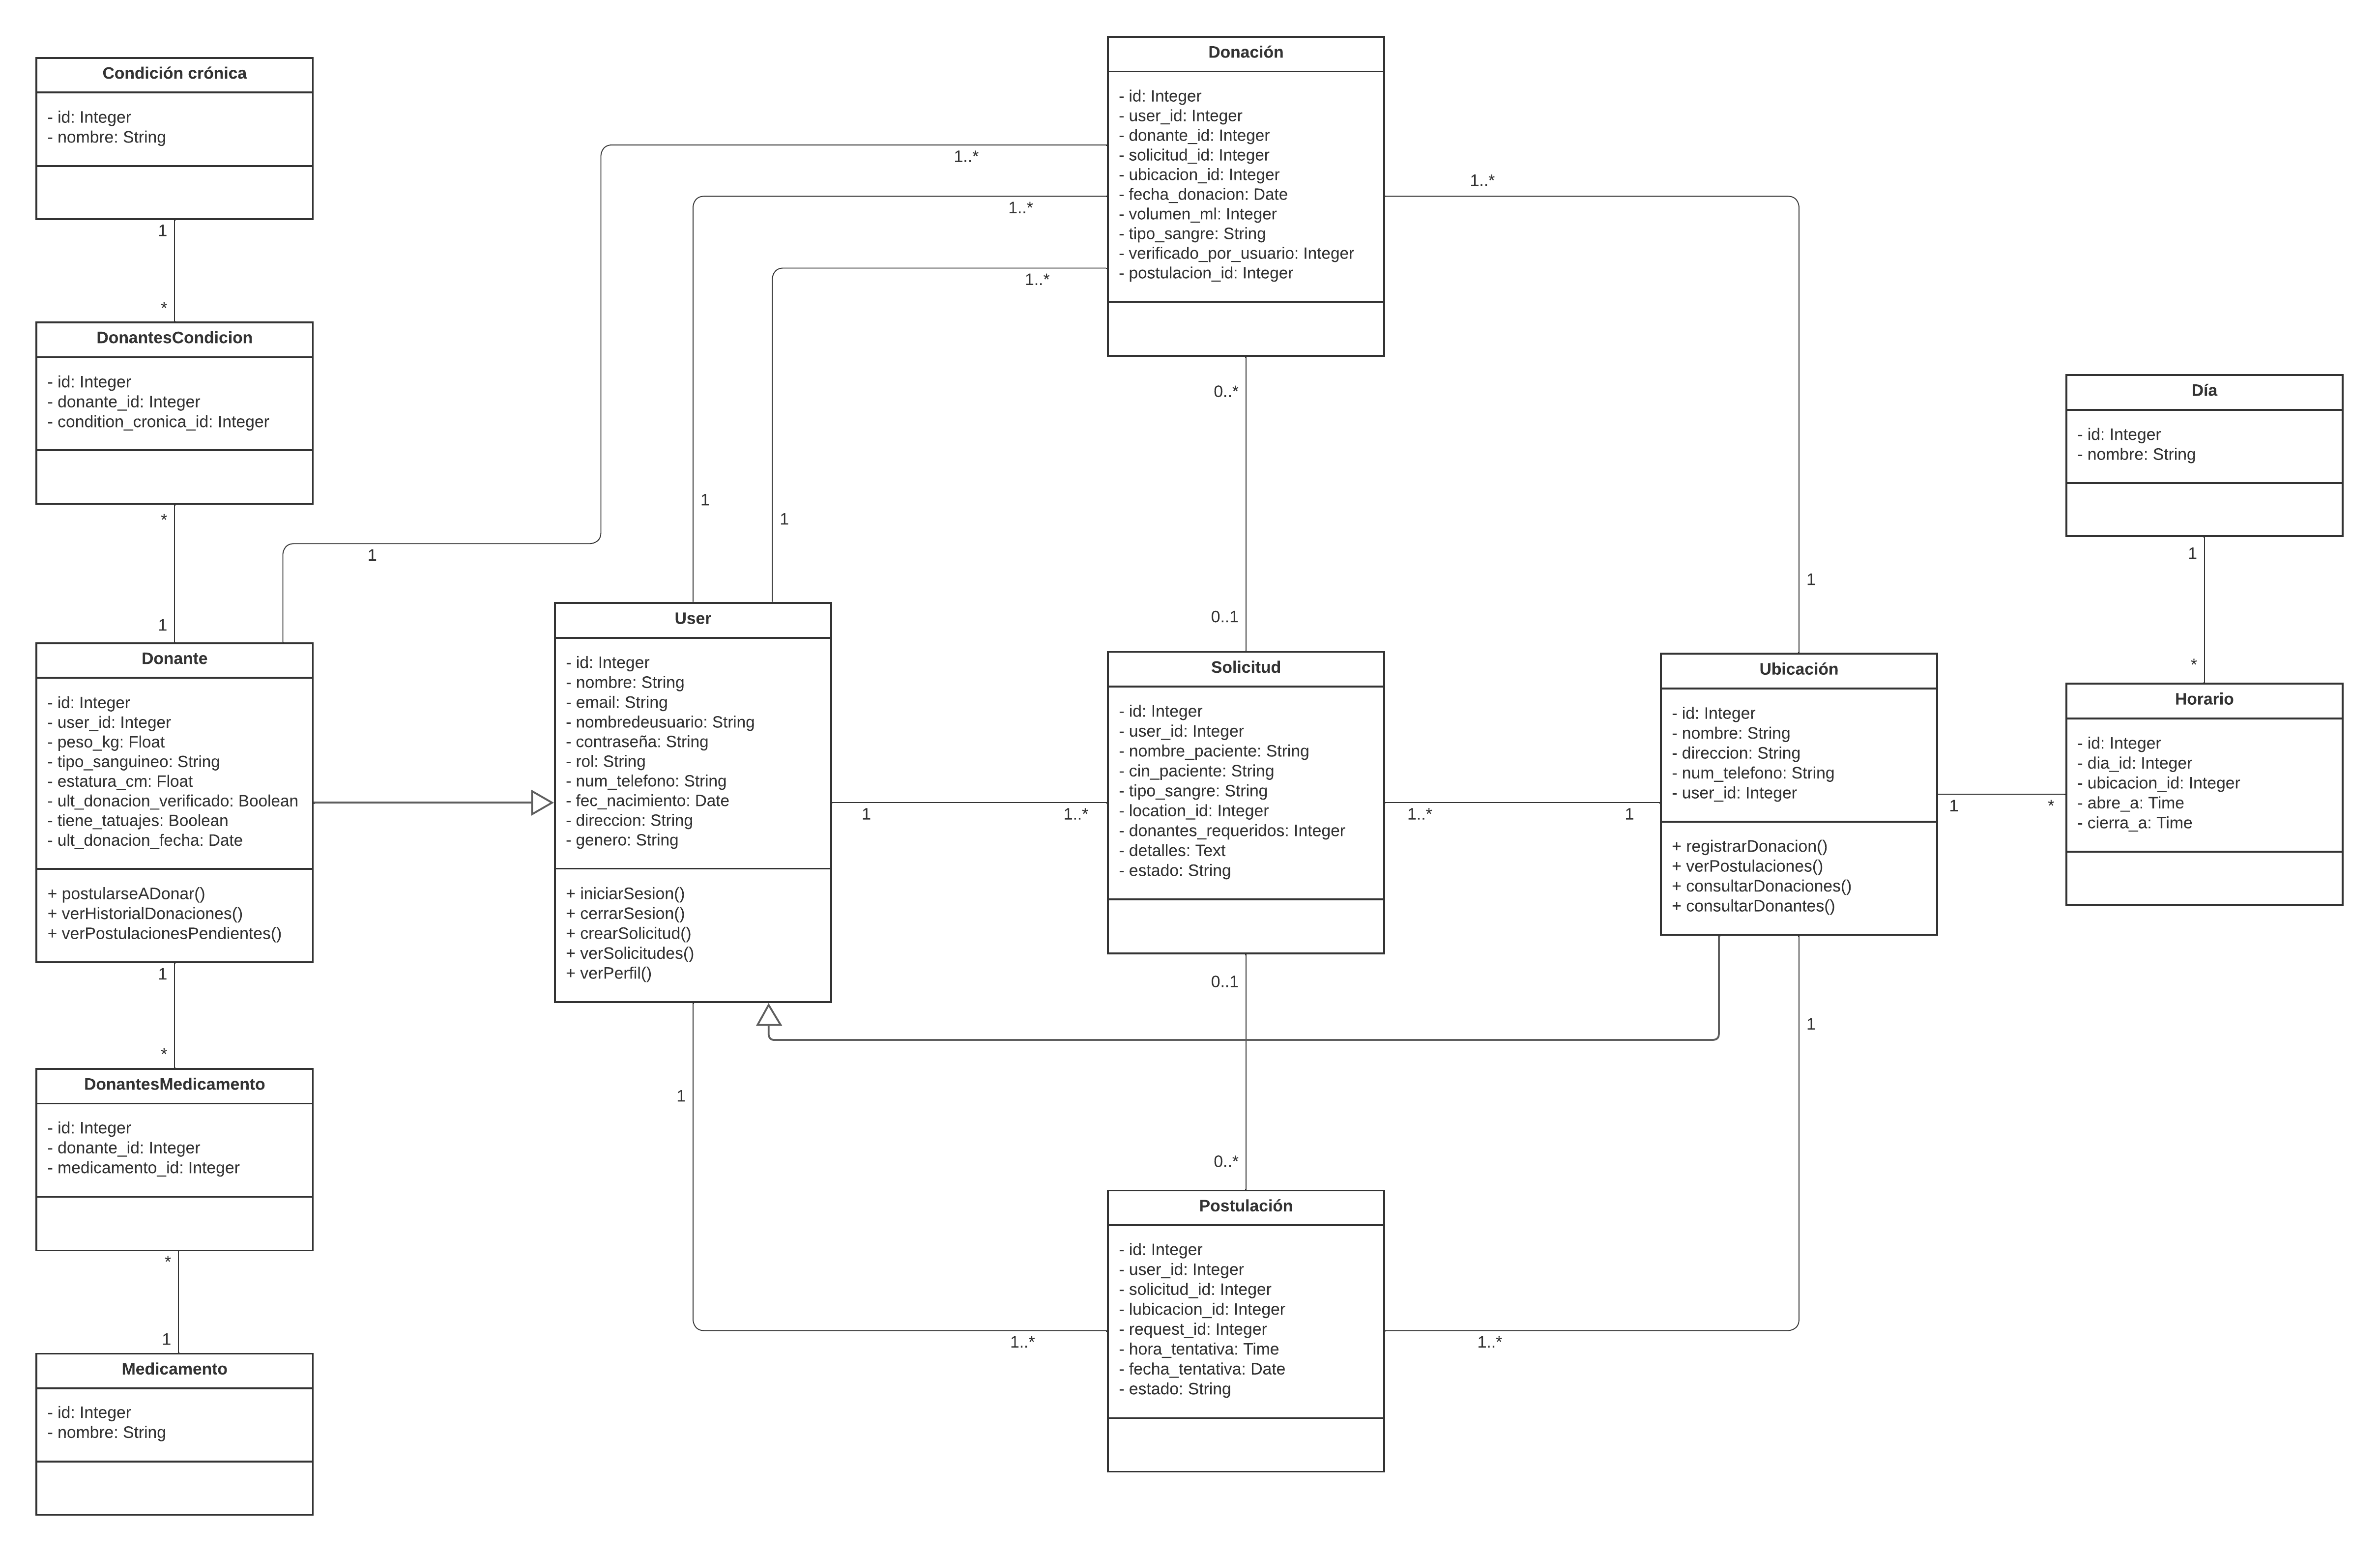
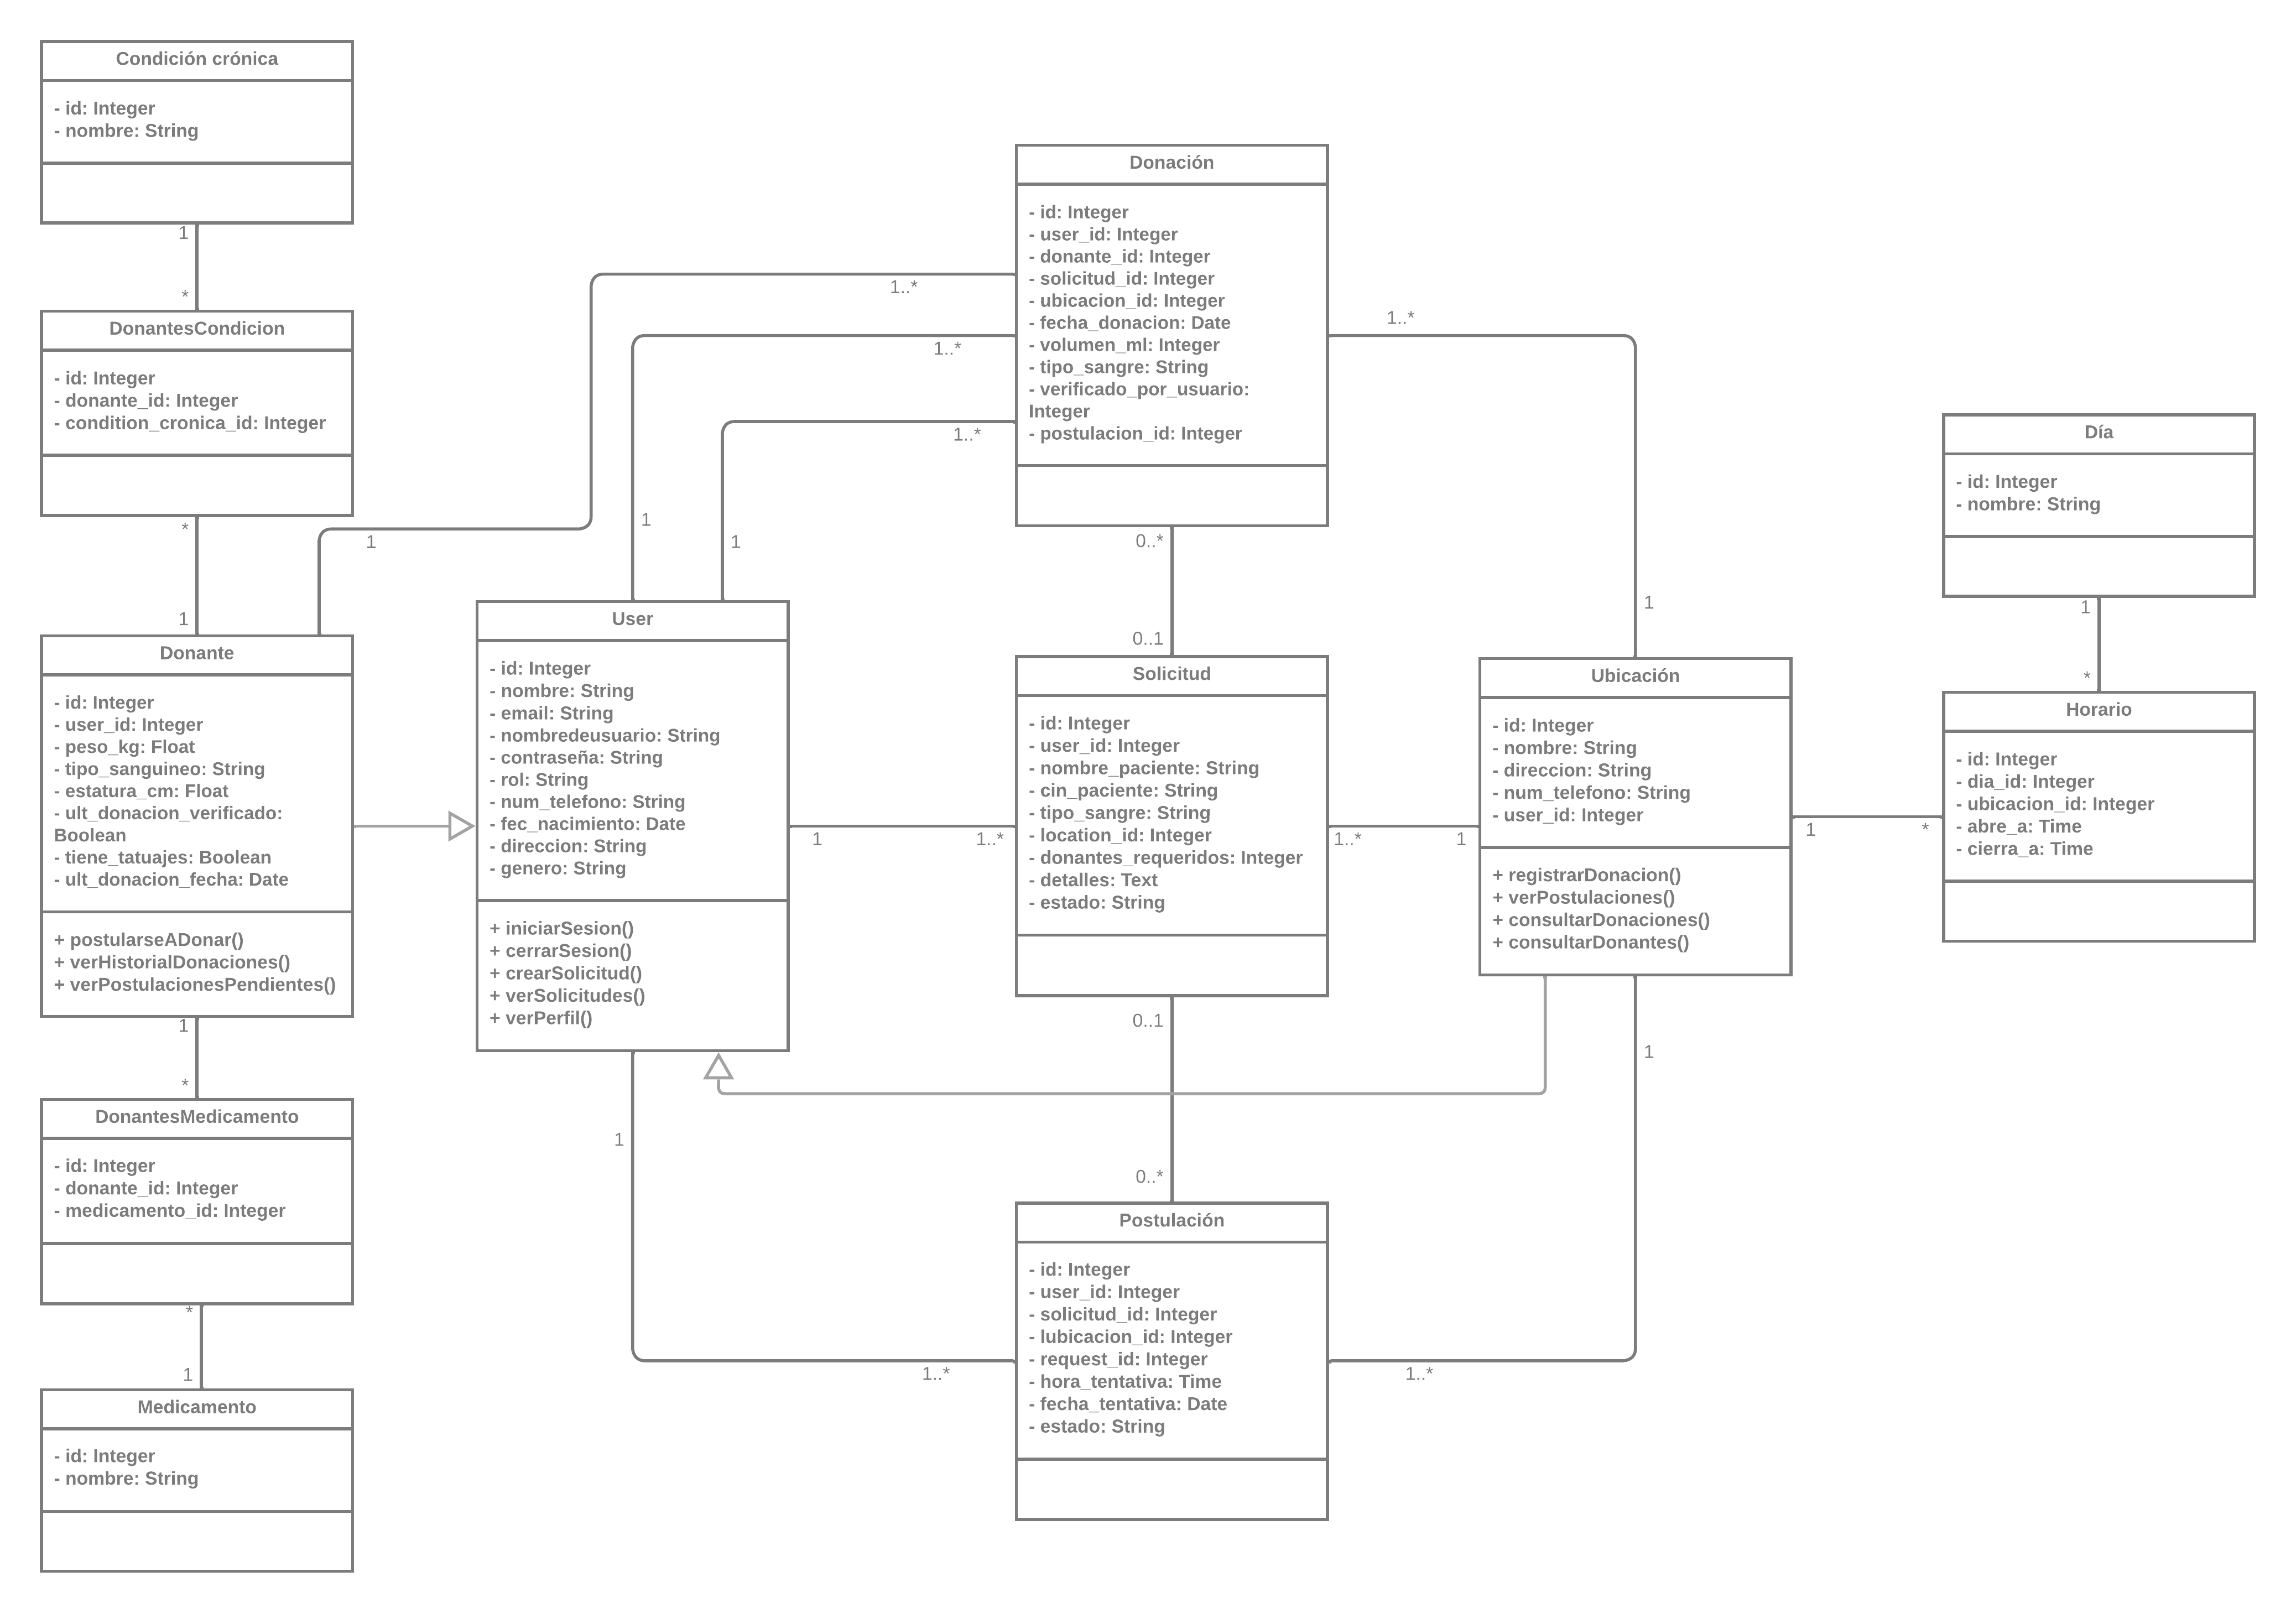
Actualización de diagramas

diff --git a/app/controllers/solicitudes_controller.rb b/app/controllers/solicitudes_controller.rb
@@ -14,13 +14,12 @@ class SolicitudesController < ApplicationController
   end
 
   def new
-    # Aquí puedes renderizar el formulario para crear una solicitud
     @solicitud = Solicitud.new
   end
 
   def create
     @solicitud = Solicitud.new(solicitud_params)
-    @solicitud.user_id = current_user.id # si tienes autenticación con devise
+    @solicitud.user_id = current_user.id
 
     if @solicitud.save
       redirect_to solicitudes_path, notice: "Solicitud creada exitosamente."
@@ -60,7 +59,7 @@ class SolicitudesController < ApplicationController
   def solicitud_params
     params.require(:solicitud).permit(
       :nombre_paciente,
-      :cin_paciente, # ojo: tu modelo tiene "cin_paciente", pero tu formulario usa "cedula_paciente"
+      :cin_paciente,
       :tipo_sangre,
       :location_id,
       :donantes_requeridos,